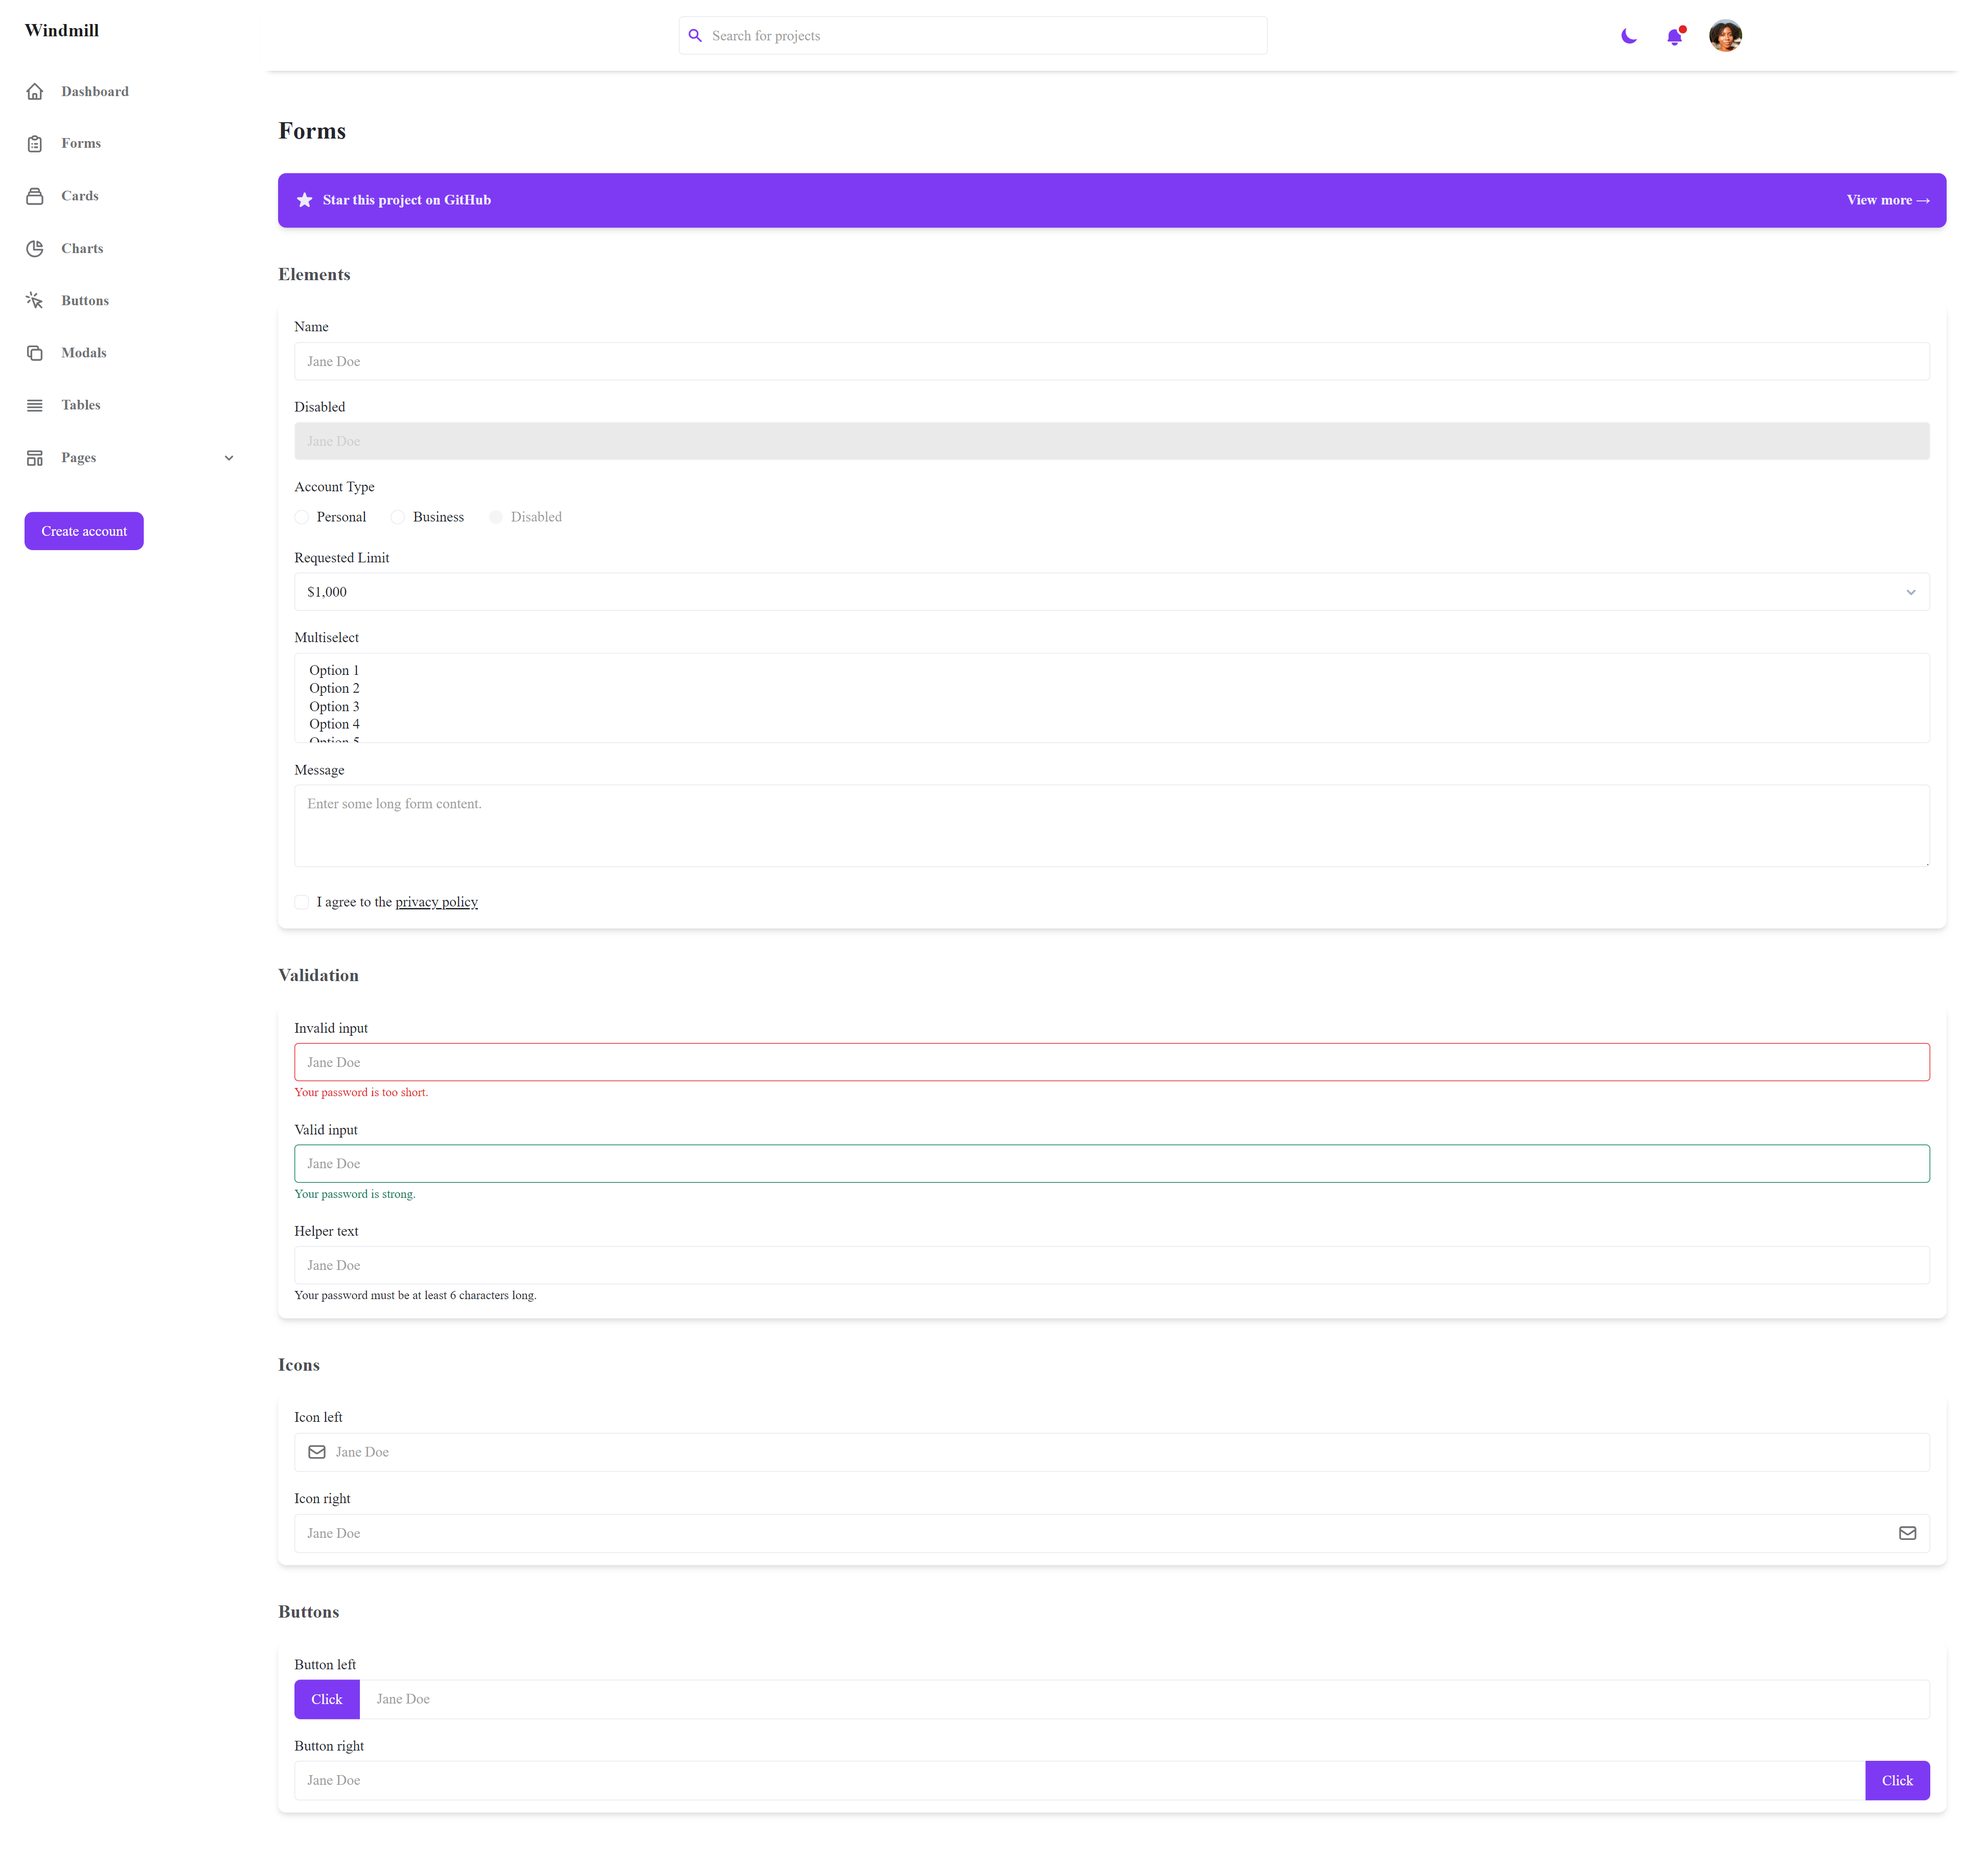
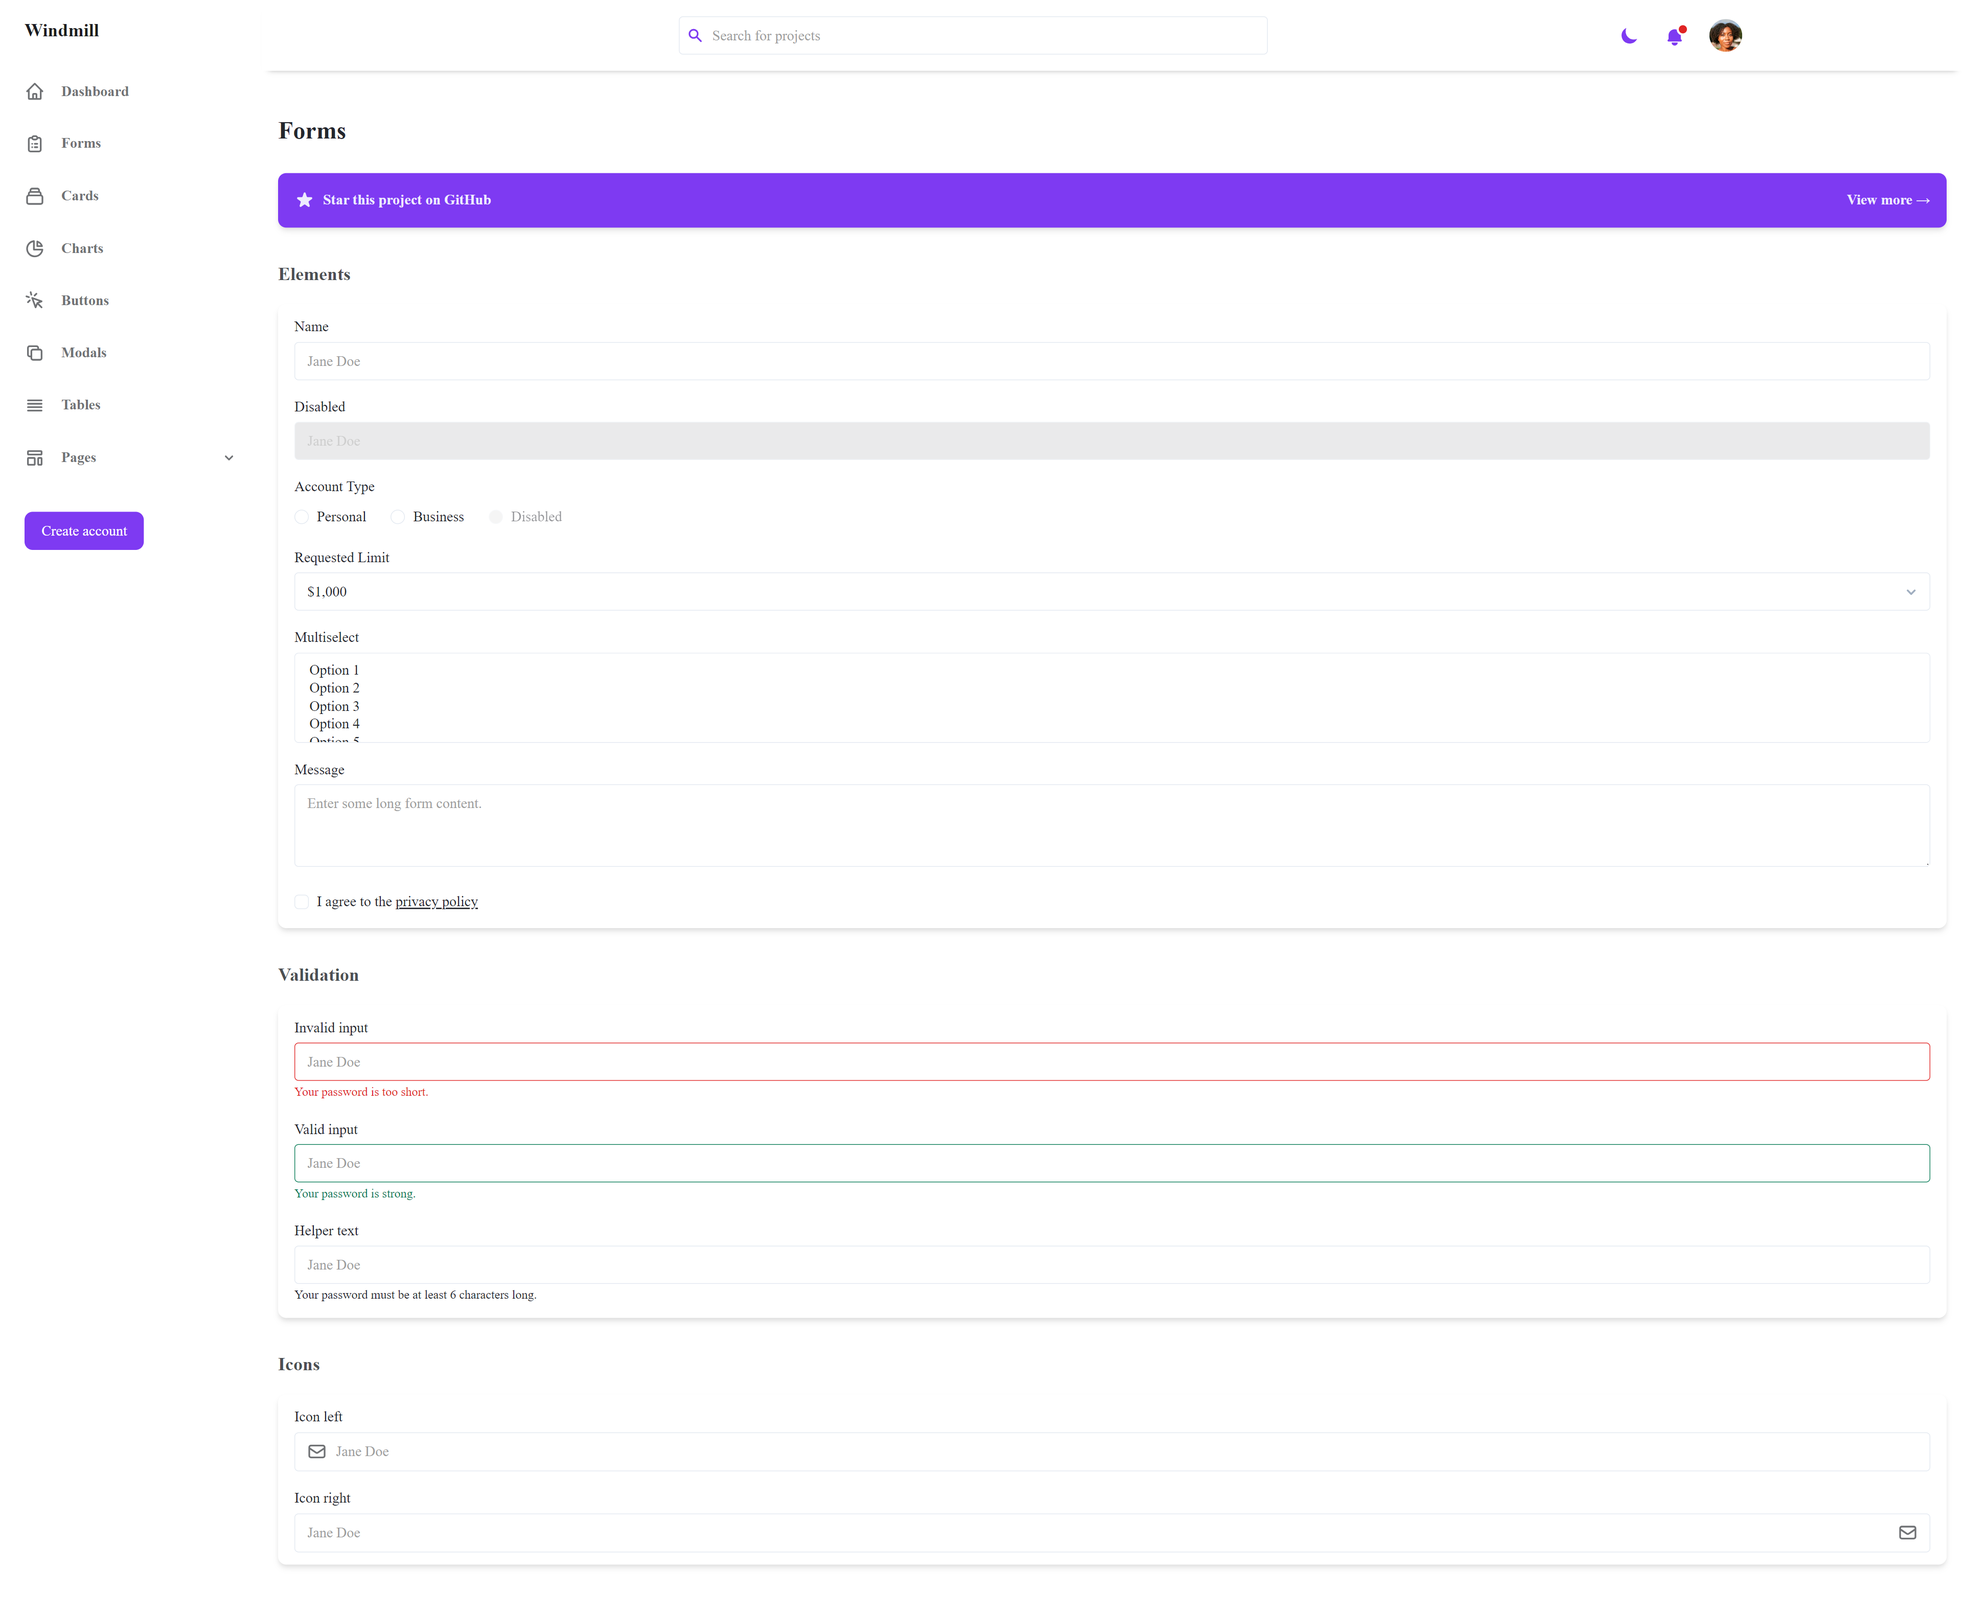
cd_4

diff --git a/src/pages/FormsPage.js b/src/pages/FormsPage.js
@@ -99,7 +99,6 @@ function FormsPage() {
         </Label>
       </div>
 
-      {/* <!-- Inputs with icons --> */}
       <h2 className="mb-4 text-lg font-semibold text-gray-600 dark:text-gray-300">Icons</h2>
 
       <div className="px-4 py-3 mb-8 bg-white rounded-lg shadow-md dark:bg-gray-800 inputWithIconContainer">
@@ -132,36 +131,7 @@ function FormsPage() {
         </Label>
       </div>
 
-      {/* <!-- Inputs with buttons --> */}
-      <h2 className="mb-4 text-lg font-semibold text-gray-600 dark:text-gray-300">Buttons</h2>
 
-      <div className="px-4 py-3 mb-8 bg-white rounded-lg shadow-md dark:bg-gray-800 inputWithButtonContainer">
-        <Label className="inputWithButton">
-          <span>Button left</span>
-          <div className="relative">
-            <input
-              className="block w-full pl-20 mt-1 text-sm dark:text-gray-300 dark:border-gray-600 dark:bg-gray-700 focus:border-purple-400 focus:outline-none focus:shadow-outline-purple dark:focus:shadow-outline-gray form-input"
-              placeholder="Jane Doe"
-            />
-            <button className="absolute inset-y-0 px-4 text-sm font-medium leading-5 text-white transition-colors duration-150 bg-purple-600 border border-transparent rounded-l-md active:bg-purple-600 hover:bg-purple-700 focus:outline-none focus:shadow-outline-purple dark:focus:shadow-outline-gray">
-              Click
-            </button>
-          </div>
-        </Label>
-
-        <Label className="mt-4 inputWithButton">
-          <span>Button right</span>
-          <div className="relative text-gray-500 focus-within:text-purple-600">
-            <input
-              className="block w-full pr-20 mt-1 text-sm text-black dark:text-gray-300 dark:border-gray-600 dark:bg-gray-700 focus:border-purple-400 focus:outline-none focus:shadow-outline-purple dark:focus:shadow-outline-gray form-input"
-              placeholder="Jane Doe"
-            />
-            <button className="absolute inset-y-0 right-0 px-4 text-sm font-medium leading-5 text-white transition-colors duration-150 bg-purple-600 border border-transparent rounded-r-md active:bg-purple-600 hover:bg-purple-700 focus:outline-none focus:shadow-outline-purple">
-              Click
-            </button>
-          </div>
-        </Label>
-      </div>
     </div>
   )
 }
